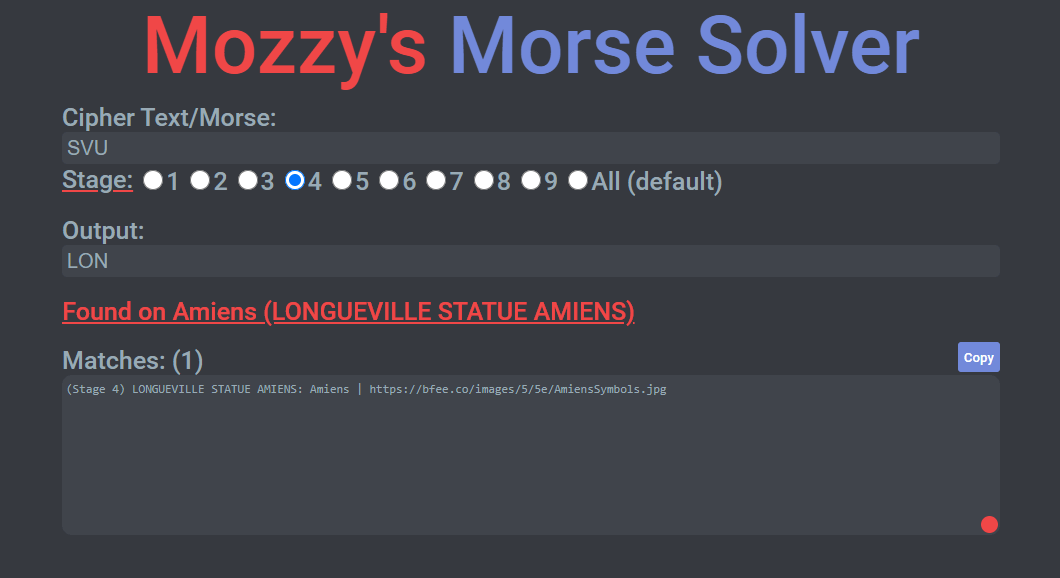
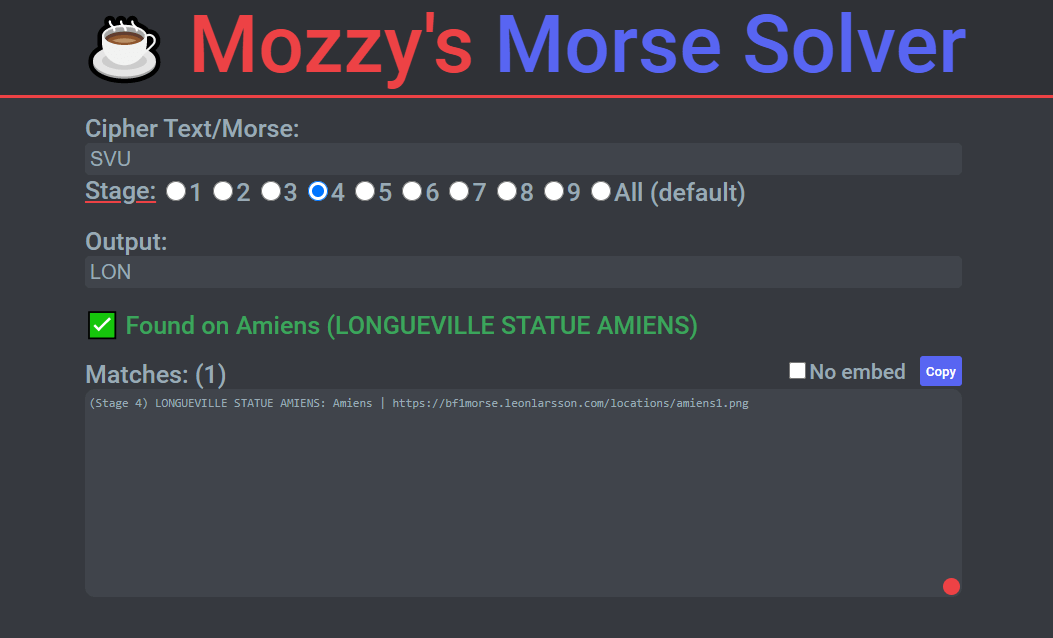
update embed image and website title

diff --git a/index.html b/index.html
@@ -3,7 +3,7 @@
 
 <head>
   <!-- Primary Meta Tags -->
-  <title>BF1 Morse Solver</title>
+  <title>Mozzy's Morse Solver</title>
   <meta name="title" content="Mozzy's Morse Solver">
   <meta name="description" content="A website used for quickly solving 'The Beginning' morse codes from Battlefield 1.">
   <meta name="theme-color" content="#7289da">
